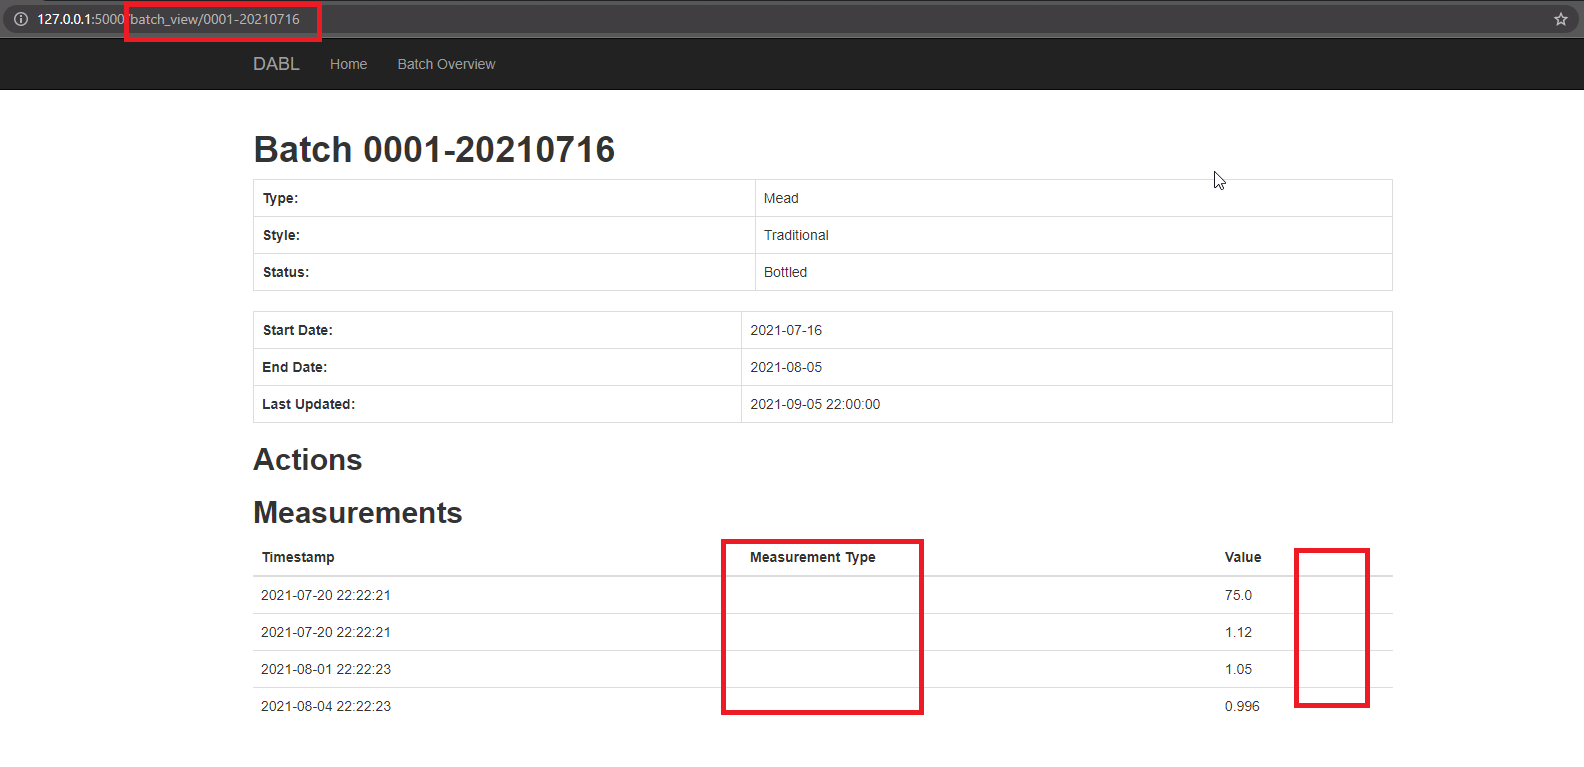
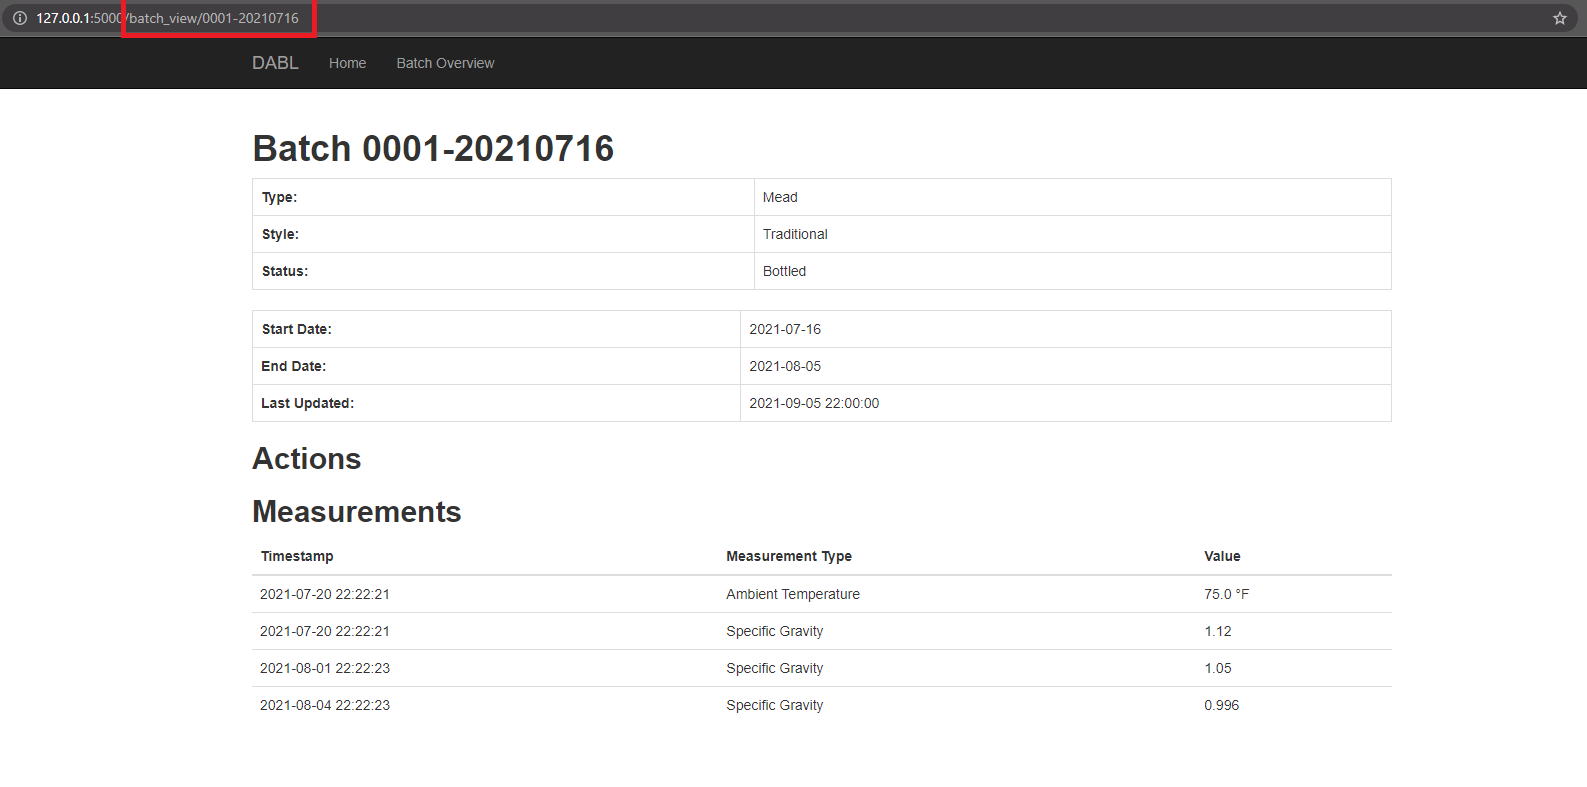
add new models, update batch view with actions

diff --git a/app/templates/batch_view.html b/app/templates/batch_view.html
@@ -46,12 +46,34 @@
 </div>
 
 <h2 class="h2"><b>Actions</b></h2> 
+<table class="table table-hover">
+  <thead>
+    <tr>
+      <th>Time</th>
+      <th>Action Type</th>
+    </tr>
+  </thead>
+  <tbody>
+    {% if actions|length > 0 %}
+      {% for action in actions %}
+      <tr>
+        <td>{{ action.time_performed }}</td>
+        <td>{{action.actiontype_rel.name }}</td>
+      </tr>
+      {% endfor %}
+    {% else %}
+      <tr>
+        <td>No Actions Added.</td><td></td>
+      </tr>
+    {% endif %}
+  </tbody>
+</table>
 
 <h2 class="h2"><b>Measurements</b></h2> 
 <table class="table table-hover">
   <thead>
     <tr>
-      <th>Timestamp</th>
+      <th>Time</th>
       <th>Measurement Type</th>
       <th>Value</th>
     </tr>
@@ -61,8 +83,8 @@
       {% for measurement in measurements %}
       <tr>
         <td>{{ measurement.time_measured }}</td>
-        <td>{{ measurement.measurementtypeid }}</td>
-        <td>{{ measurement.value }} {{ measurement.measurementtypeid }}</td>
+        <td>{{ measurement.measurmenttype_rel.name }}</td>
+        <td>{{ measurement.value }} {{ measurement.measurmenttype_rel.eng_units }}</td>
       </tr>
       {% endfor %}
     {% else %}

diff --git a/app/templates/batch_overview.html b/app/templates/batch_overview.html
@@ -11,7 +11,7 @@
                       <thead>
                         <tr>
                           <th>Batches</th>
-                          <th>Start Time</th>
+                          <th>Start Date</th>
                           <th>Type</th>
                           <th>Style</th>
                           <th>Status</th>
@@ -23,7 +23,7 @@
                           {% for batch in all_batches %}
                           <tr>
                             <td>{{ batch.name }}</td>
-                            <td>{{ batch.time_start }}</td>
+                            <td>{{ batch.time_start.strftime('%Y-%m-%d') }}</td>
                             <td>{{ batch.type.name }}</td>
                             <td>{{ batch.style.name }}</td>
                             <td>{{ batch.status.name }}</td>

diff --git a/migrations/versions/c9d29fb90bd4_20211019_model_updates.py b/migrations/versions/c9d29fb90bd4_20211019_model_updates.py
@@ -1,0 +1,67 @@
+"""20211019 model updates
+
+Revision ID: c9d29fb90bd4
+Revises: 85fe4fc93bdf
+Create Date: 2021-10-19 21:11:34.113217
+
+"""
+from alembic import op
+import sqlalchemy as sa
+
+
+# revision identifiers, used by Alembic.
+revision = 'c9d29fb90bd4'
+down_revision = '85fe4fc93bdf'
+branch_labels = None
+depends_on = None
+
+
+def upgrade():
+    # ### commands auto generated by Alembic - please adjust! ###
+    op.create_table('actiontypes',
+    sa.Column('id', sa.Integer(), nullable=False),
+    sa.Column('name', sa.String(length=32), nullable=True),
+    sa.PrimaryKeyConstraint('id')
+    )
+    op.create_table('componentclasses',
+    sa.Column('id', sa.Integer(), nullable=False),
+    sa.Column('name', sa.String(length=32), nullable=True),
+    sa.PrimaryKeyConstraint('id')
+    )
+    op.create_table('componenttypes',
+    sa.Column('id', sa.Integer(), nullable=False),
+    sa.Column('name', sa.String(length=32), nullable=True),
+    sa.PrimaryKeyConstraint('id')
+    )
+    op.create_table('actions',
+    sa.Column('id', sa.Integer(), nullable=False),
+    sa.Column('batch_id', sa.Integer(), nullable=True),
+    sa.Column('time_performed', sa.DateTime(), nullable=True),
+    sa.Column('actiontype_id', sa.Integer(), nullable=True),
+    sa.Column('value', sa.Float(), nullable=True),
+    sa.ForeignKeyConstraint(['actiontype_id'], ['actiontypes.id'], ),
+    sa.ForeignKeyConstraint(['batch_id'], ['batches.id'], ),
+    sa.PrimaryKeyConstraint('id')
+    )
+    op.create_table('components',
+    sa.Column('id', sa.Integer(), nullable=False),
+    sa.Column('batch_id', sa.Integer(), nullable=True),
+    sa.Column('componentclass_id', sa.Integer(), nullable=True),
+    sa.Column('componenttype_id', sa.Integer(), nullable=True),
+    sa.Column('value', sa.Float(), nullable=True),
+    sa.ForeignKeyConstraint(['batch_id'], ['batches.id'], ),
+    sa.ForeignKeyConstraint(['componentclass_id'], ['componentclasses.id'], ),
+    sa.ForeignKeyConstraint(['componenttype_id'], ['componenttypes.id'], ),
+    sa.PrimaryKeyConstraint('id')
+    )
+    # ### end Alembic commands ###
+
+
+def downgrade():
+    # ### commands auto generated by Alembic - please adjust! ###
+    op.drop_table('components')
+    op.drop_table('actions')
+    op.drop_table('componenttypes')
+    op.drop_table('componentclasses')
+    op.drop_table('actiontypes')
+    # ### end Alembic commands ###

diff --git a/app/models.py b/app/models.py
@@ -68,6 +68,7 @@ class Batch(db.Model):
     style = db.relationship('Brewstyle')
     status = db.relationship('Status')
 
+
 class Measurement(db.Model):
     __tablename__ = 'measurements'
     id = db.Column(db.Integer, primary_key = True)
@@ -79,8 +80,52 @@ class Measurement(db.Model):
     batch = db.relationship('Batch')
     measurmenttype_rel = db.relationship('Measurementtype')
 
+
 class Measurementtype(db.Model):
     __tablename__ = 'measurementtypes'
     id = db.Column(db.Integer, primary_key = True)
     name = db.Column(db.String(32))
     eng_units = db.Column(db.String(32))
+
+
+class Action(db.Model):
+    __tablename__ = 'actions'
+    id = db.Column(db.Integer, primary_key = True)
+    batch_id = db.Column(db.Integer, db.ForeignKey('batches.id'))
+    time_performed = db.Column(db.DateTime)
+    actiontype_id = db.Column(db.Integer, db.ForeignKey('actiontypes.id'))
+    value = db.Column(db.Float)
+
+    batch = db.relationship('Batch')
+    actiontype_rel = db.relationship('Actiontype')
+
+
+class Actiontype(db.Model):
+    __tablename__ = 'actiontypes'
+    id = db.Column(db.Integer, primary_key = True)
+    name = db.Column(db.String(32))
+
+
+class Component(db.Model):
+    __tablename__ = 'components'
+    id = db.Column(db.Integer, primary_key = True)
+    batch_id = db.Column(db.Integer, db.ForeignKey('batches.id'))
+    componentclass_id = db.Column(db.Integer, db.ForeignKey('componentclasses.id'))
+    componenttype_id = db.Column(db.Integer, db.ForeignKey('componenttypes.id'))
+    value = db.Column(db.Float)
+
+    batch = db.relationship('Batch')
+    componentclass_rel = db.relationship('Componentclass')
+    componenttype_rel = db.relationship('Componenttype')
+
+
+class Componentclass(db.Model):
+    __tablename__ = 'componentclasses'
+    id = db.Column(db.Integer, primary_key = True)
+    name = db.Column(db.String(32))
+
+
+class Componenttype(db.Model):
+    __tablename__ = 'componenttypes'
+    id = db.Column(db.Integer, primary_key = True)
+    name = db.Column(db.String(32))

diff --git a/app/main/views.py b/app/main/views.py
@@ -1,6 +1,6 @@
 from flask import render_template, session, redirect, url_for, current_app
 from .. import db
-from ..models import Measurement, User, Batch
+from ..models import Measurement, User, Batch, Action
 from ..email import send_email
 from . import main, batches
 from .forms import NameForm
@@ -41,12 +41,13 @@ def all_batches():
 @batches.route('/batch_view/<name>', methods=['GET', 'POST'])
 def batch_view(name):
     _batch = Batch.query.filter_by(name=name).first()
-    print(_batch.id)
     _measurements = Measurement.query.filter_by(batch_id=_batch.id).all()
-    print(_measurements)
+    _actions = Action.query.filter_by(batch_id=_batch.id).all()
     if not _batch:
         #flash('Oops! Something went wrong!.', 'danger')
         return redirect(url_for("batches.all_batches"))
 
     return render_template('batch_view.html',
-                           batch=_batch, measurements=_measurements)
+                           batch=_batch, 
+                           measurements=_measurements,
+                           actions=_actions)

diff --git a/docs/devlog.md b/docs/devlog.md
@@ -10,4 +10,8 @@
 * created html page to show simple batch data and started steps to pull measurements
 * updated batch overview page to link to new batch data view page
 * setup route to batch data view to use batch name a variable to the route
-* issues with pulling measurement names and enginering units from relationship, unresolved
+
+### **2021.10.19** ###
+* added more models to database for actions and components
+* updated db with new migration script
+* added actions view batch page
